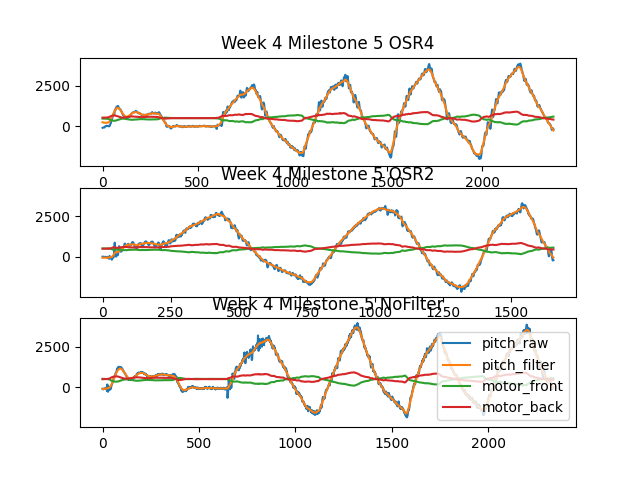
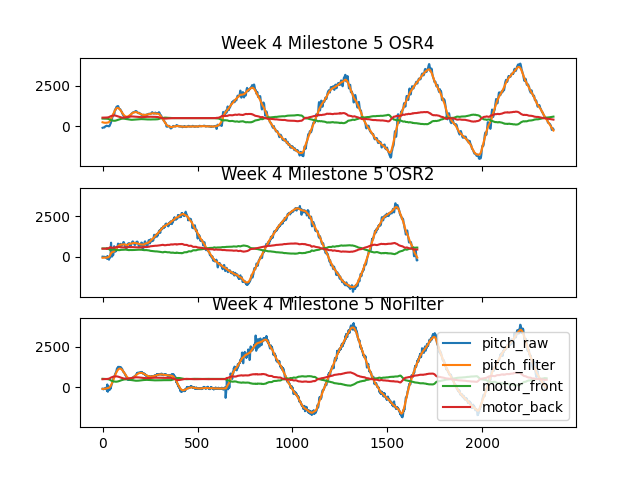
graph fix

diff --git a/plotting.py b/plotting.py
@@ -11,7 +11,7 @@ data3 = pd.read_csv("noFilter.csv")
 times1 = len(data1)
 times2 = len(data2)
 times3 = len(data3)
-fig, (ax1,ax2,ax3) = plt.subplots(nrows=3, ncols=1, sharey=True)
+fig, (ax1,ax2,ax3) = plt.subplots(nrows=3, ncols=1, sharey=True, sharex=True)
 ax1.plot(range(times1), 100*data1["pitch_raw"][:times1], label="pitch_raw")
 ax1.plot(range(times1), 100*data1["pitch_filter"][:times1], label="pitch_filter")
 ax1.plot(range(times1), data1["motor_front"][:times1], label="motor_front")
